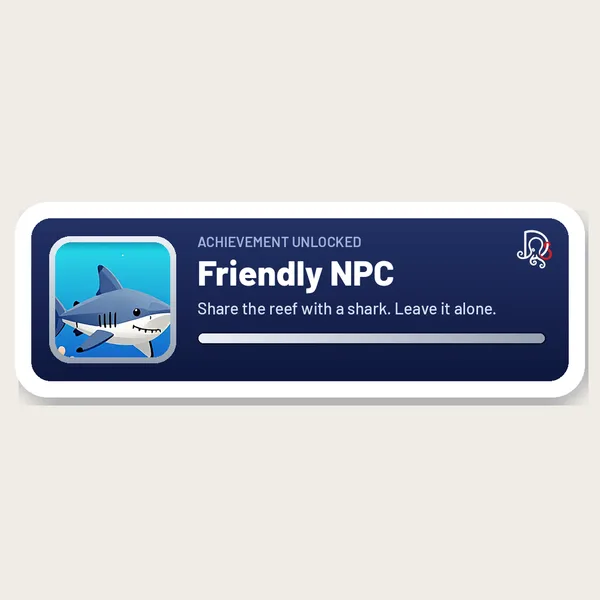
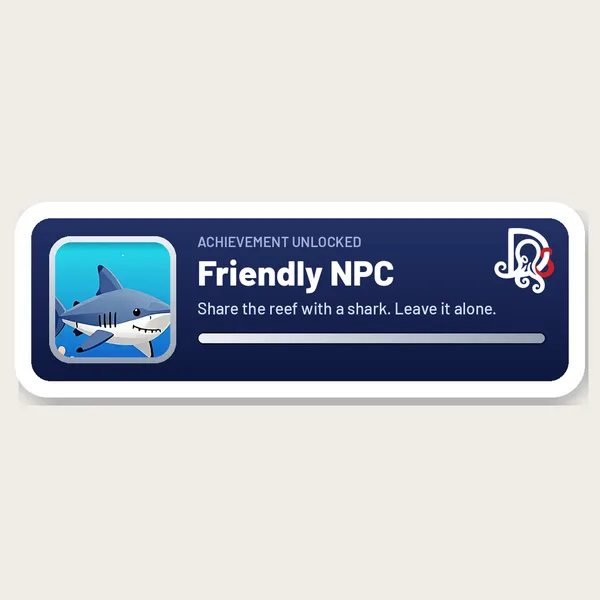
Stickers: heavy DS mark on the Achievement Unlocked set
Claude-Session: https://claude.ai/code/session_01X9sKEeTcKJuresRGfJguzk

Changed region(s): [[0.81, 0.36, 0.93, 0.51]]

diff --git a/index.html b/index.html
@@ -541,7 +541,7 @@ section{padding-block:clamp(40px,7vw,72px);border-top:1px solid var(--rule)}
         <h2 id="stickers-h">The stickers</h2>
         <p>Die-cut vinyl for the tank, the dive box and the logbook. <strong>Achievement Unlocked</strong> writes each course as a game achievement — twelve of them, $4 each or $15 for the full set on one sheet. The classic die-cuts are $5, one for each course and specialty, about 3 inches. Waterproof, with the DS mark worked into every one. More on the way.</p>
       </div>
-      <div class="sh-grid sk-grid" id="sk-grid"><figure class="sh sk" data-sku="DS-STK-A-SET12" data-line="achievement"><button type="button" class="sh-img" data-front="img/stickers/achievement-unlocked-full-set.webp?v=d41ab11b" data-cap="Achievement Unlocked — Full Set · 8.50 x 11.00 in sheet · $15" data-umami-event="sticker-open" data-umami-event-sticker="achievement-unlocked-full-set" aria-label="Open image: Achievement Unlocked — Full Set sticker"><img src="img/stickers/achievement-unlocked-full-set-t.webp?v=e28e6e7f" width="600" height="600" loading="lazy" decoding="async" alt="Achievement Unlocked — Full Set sticker: All twelve achievements on one kiss-cut sheet"></button><figcaption><span class="dz-row"><span class="dz-t">Achievement Unlocked — Full Set</span><span class="pill available">Coming soon</span></span><span class="dz-s">All twelve on one 8.5 × 11 in sheet · $15</span></figcaption></figure><figure class="sh sk" data-sku="DS-STK-A-OWD" data-line="achievement"><button type="button" class="sh-img" data-front="img/stickers/achievement-freshly-certified.webp?v=33fe5176" data-cap="Freshly Certified · 3.50 x 1.20 in · $4" data-umami-event="sticker-open" data-umami-event-sticker="achievement-freshly-certified" aria-label="Open image: Freshly Certified sticker"><img src="img/stickers/achievement-freshly-certified-t.webp?v=2d5724d3" width="600" height="600" loading="lazy" decoding="async" alt="Freshly Certified sticker: Complete your first four open water dives."></button><figcaption><span class="dz-row"><span class="dz-t">Freshly Certified</span><span class="pill available">Coming soon</span></span><span class="dz-s">Open Water · Bronze · 3.5 × 1.2 in · $4</span></figcaption></figure><figure class="sh sk" data-sku="DS-STK-A-RES" data-line="achievement"><button type="button" class="sh-img" data-front="img/stickers/achievement-not-on-my-watch.webp?v=531c9c5f" data-cap="Not On My Watch · 3.50 x 1.20 in · $4" data-umami-event="sticker-open" data-umami-event-sticker="achievement-not-on-my-watch" aria-label="Open image: Not On My Watch sticker"><img src="img/stickers/achievement-not-on-my-watch-t.webp?v=41d28a93" width="600" height="600" loading="lazy" decoding="async" alt="Not On My Watch sticker: Bring an unresponsive diver to the surface."></button><figcaption><span class="dz-row"><span class="dz-t">Not On My Watch</span><span class="pill available">Coming soon</span></span><span class="dz-s">Rescue · Gold · 3.5 × 1.2 in · $4</span></figcaption></figure><figure class="sh sk" data-sku="DS-STK-A-MSD" data-line="achievement"><button type="button" class="sh-img" data-front="img/stickers/achievement-master-diver.webp?v=067779b2" data-cap="Master Diver · 3.50 x 1.20 in · $4" data-umami-event="sticker-open" data-umami-event-sticker="achievement-master-diver" aria-label="Open image: Master Diver sticker"><img src="img/stickers/achievement-master-diver-t.webp?v=1607a403" width="600" height="600" loading="lazy" decoding="async" alt="Master Diver sticker: Earn Rescue plus five specialty certifications."></button><figcaption><span class="dz-row"><span class="dz-t">Master Diver</span><span class="pill available">Coming soon</span></span><span class="dz-s">Master Diver · Platinum · 3.5 × 1.2 in · $4</span></figcaption></figure><figure class="sh sk" data-sku="DS-STK-A-DRI" data-line="achievement"><button type="button" class="sh-img" data-front="img/stickers/achievement-along-for-the-ride.webp?v=079fc176" data-cap="Along For The Ride · 3.50 x 1.20 in · $4" data-umami-event="sticker-open" data-umami-event-sticker="achievement-along-for-the-ride" aria-label="Open image: Along For The Ride sticker"><img src="img/stickers/achievement-along-for-the-ride-t.webp?v=4b3c4d6d" width="600" height="600" loading="lazy" decoding="async" alt="Along For The Ride sticker: Let the current do all the work."></button><figcaption><span class="dz-row"><span class="dz-t">Along For The Ride</span><span class="pill available">Coming soon</span></span><span class="dz-s">Drift · Silver · 3.5 × 1.2 in · $4</span></figcaption></figure><figure class="sh sk" data-sku="DS-STK-A-BUO" data-line="achievement"><button type="button" class="sh-img" data-front="img/stickers/achievement-hover-mode.webp?v=f43058eb" data-cap="Hover Mode · 3.50 x 1.20 in · $4" data-umami-event="sticker-open" data-umami-event-sticker="achievement-hover-mode" aria-label="Open image: Hover Mode sticker"><img src="img/stickers/achievement-hover-mode-t.webp?v=5651ca1b" width="600" height="600" loading="lazy" decoding="async" alt="Hover Mode sticker: Hold neutral for a full minute. No fin kicks."></button><figcaption><span class="dz-row"><span class="dz-t">Hover Mode</span><span class="pill available">Coming soon</span></span><span class="dz-s">Peak Performance Buoyancy · Silver · 3.5 × 1.2 in · $4</span></figcaption></figure><figure class="sh sk" data-sku="DS-STK-A-NTX" data-line="achievement"><button type="button" class="sh-img" data-front="img/stickers/achievement-spicy-air.webp?v=b7b1169c" data-cap="Spicy Air · 3.50 x 1.20 in · $4" data-umami-event="sticker-open" data-umami-event-sticker="achievement-spicy-air" aria-label="Open image: Spicy Air sticker"><img src="img/stickers/achievement-spicy-air-t.webp?v=617b14eb" width="600" height="600" loading="lazy" decoding="async" alt="Spicy Air sticker: Analyze your own tank. 32% confirmed."></button><figcaption><span class="dz-row"><span class="dz-t">Spicy Air</span><span class="pill available">Coming soon</span></span><span class="dz-s">Enriched Air Nitrox · Bronze · 3.5 × 1.2 in · $4</span></figcaption></figure><figure class="sh sk" data-sku="DS-STK-A-UWP" data-line="achievement"><button type="button" class="sh-img" data-front="img/stickers/achievement-photobombed.webp?v=dd16156f" data-cap="Photobombed · 3.50 x 1.20 in · $4" data-umami-event="sticker-open" data-umami-event-sticker="achievement-photobombed" aria-label="Open image: Photobombed sticker"><img src="img/stickers/achievement-photobombed-t.webp?v=2269da52" width="600" height="600" loading="lazy" decoding="async" alt="Photobombed sticker: Get a fish to look straight at the camera."></button><figcaption><span class="dz-row"><span class="dz-t">Photobombed</span><span class="pill available">Coming soon</span></span><span class="dz-s">Underwater Photography · Bronze · 3.5 × 1.2 in · $4</span></figcaption></figure><figure class="sh sk" data-sku="DS-STK-A-SAR" data-line="achievement"><button type="button" class="sh-img" data-front="img/stickers/achievement-lost-and-found.webp?v=546abb11" data-cap="Lost &amp; Found · 3.50 x 1.20 in · $4" data-umami-event="sticker-open" data-umami-event-sticker="achievement-lost-and-found" aria-label="Open image: Lost &amp; Found sticker"><img src="img/stickers/achievement-lost-and-found-t.webp?v=cf3bdc9f" width="600" height="600" loading="lazy" decoding="async" alt="Lost &amp; Found sticker: Send a lost fin to the surface on a lift bag."></button><figcaption><span class="dz-row"><span class="dz-t">Lost &amp; Found</span><span class="pill available">Coming soon</span></span><span class="dz-s">Search &amp; Recovery · Silver · 3.5 × 1.2 in · $4</span></figcaption></figure><figure class="sh sk" data-sku="DS-STK-A-SID" data-line="achievement"><button type="button" class="sh-img" data-front="img/stickers/achievement-dual-wield.webp?v=4646a07c" data-cap="Dual Wield · 3.50 x 1.20 in · $4" data-umami-event="sticker-open" data-umami-event-sticker="achievement-dual-wield" aria-label="Open image: Dual Wield sticker"><img src="img/stickers/achievement-dual-wield-t.webp?v=1cbabbb5" width="600" height="600" loading="lazy" decoding="async" alt="Dual Wield sticker: Dive with a cylinder on each side."></button><figcaption><span class="dz-row"><span class="dz-t">Dual Wield</span><span class="pill available">Coming soon</span></span><span class="dz-s">Sidemount · Gold · 3.5 × 1.2 in · $4</span></figcaption></figure><figure class="sh sk" data-sku="DS-STK-A-SHK" data-line="achievement"><button type="button" class="sh-img" data-front="img/stickers/achievement-friendly-npc.webp?v=1299ccbc" data-cap="Friendly NPC · 3.50 x 1.20 in · $4" data-umami-event="sticker-open" data-umami-event-sticker="achievement-friendly-npc" aria-label="Open image: Friendly NPC sticker"><img src="img/stickers/achievement-friendly-npc-t.webp?v=3779b2f7" width="600" height="600" loading="lazy" decoding="async" alt="Friendly NPC sticker: Share the reef with a shark. Leave it alone."></button><figcaption><span class="dz-row"><span class="dz-t">Friendly NPC</span><span class="pill available">Coming soon</span></span><span class="dz-s">Shark Conservation · Silver · 3.5 × 1.2 in · $4</span></figcaption></figure><figure class="sh sk" data-sku="DS-STK-A-FSH" data-line="achievement"><button type="button" class="sh-img" data-front="img/stickers/achievement-bestiary.webp?v=f0c3f40c" data-cap="Bestiary · 3.50 x 1.20 in · $4" data-umami-event="sticker-open" data-umami-event-sticker="achievement-bestiary" aria-label="Open image: Bestiary sticker"><img src="img/stickers/achievement-bestiary-t.webp?v=4f4ab1d8" width="600" height="600" loading="lazy" decoding="async" alt="Bestiary sticker: Identify fifty species on one trip."></button><figcaption><span class="dz-row"><span class="dz-t">Bestiary</span><span class="pill available">Coming soon</span></span><span class="dz-s">Fish ID · Gold · 3.5 × 1.2 in · $4</span></figcaption></figure><figure class="sh sk" data-sku="DS-STK-A-ALT" data-line="achievement"><button type="button" class="sh-img" data-front="img/stickers/achievement-high-score.webp?v=33ff20e5" data-cap="High Score · 3.50 x 1.20 in · $4" data-umami-event="sticker-open" data-umami-event-sticker="achievement-high-score" aria-label="Open image: High Score sticker"><img src="img/stickers/achievement-high-score-t.webp?v=a37f8728" width="600" height="600" loading="lazy" decoding="async" alt="High Score sticker: Dive a lake more than 1,000 ft above sea level."></button><figcaption><span class="dz-row"><span class="dz-t">High Score</span><span class="pill available">Coming soon</span></span><span class="dz-s">Altitude · Gold · 3.5 × 1.2 in · $4</span></figcaption></figure><figure class="sh sk" data-sku="DS-STK-D-OWD" data-line="diecut"><button type="button" class="sh-img" data-front="img/stickers/sticker-open-water-freshly-certified.webp?v=2ba050f5" data-cap="Freshly Certified · 2.69 x 3.00 in · $5" data-umami-event="sticker-open" data-umami-event-sticker="sticker-open-water-freshly-certified" aria-label="Open image: Freshly Certified sticker"><img src="img/stickers/sticker-open-water-freshly-certified-t.webp?v=69e6f8b4" width="600" height="600" loading="lazy" decoding="async" alt="Freshly Certified sticker"></button><figcaption><span class="dz-row"><span class="dz-t">Freshly Certified</span><span class="pill available">Coming soon</span></span><span class="dz-s">Open Water · die-cut · 2.69 × 3.00 in · $5</span></figcaption></figure><figure class="sh sk" data-sku="DS-STK-D-AOW" data-line="diecut"><button type="button" class="sh-img" data-front="img/stickers/sticker-advanced-level-up.webp?v=b2963891" data-cap="Level Up · 2.69 x 3.00 in · $5" data-umami-event="sticker-open" data-umami-event-sticker="sticker-advanced-level-up" aria-label="Open image: Level Up sticker"><img src="img/stickers/sticker-advanced-level-up-t.webp?v=c7c256c6" width="600" height="600" loading="lazy" decoding="async" alt="Level Up sticker"></button><figcaption><span class="dz-row"><span class="dz-t">Level Up</span><span class="pill available">Coming soon</span></span><span class="dz-s">Advanced Open Water · die-cut · 2.69 × 3.00 in · $5</span></figcaption></figure><figure class="sh sk" data-sku="DS-STK-D-RES" data-line="diecut"><button type="button" class="sh-img" data-front="img/stickers/sticker-rescue-not-on-my-watch.webp?v=aca54433" data-cap="Not On My Watch · 2.90 x 3.00 in · $5" data-umami-event="sticker-open" data-umami-event-sticker="sticker-rescue-not-on-my-watch" aria-label="Open image: Not On My Watch sticker"><img src="img/stickers/sticker-rescue-not-on-my-watch-t.webp?v=9a055653" width="600" height="600" loading="lazy" decoding="async" alt="Not On My Watch sticker"></button><figcaption><span class="dz-row"><span class="dz-t">Not On My Watch</span><span class="pill available">Coming soon</span></span><span class="dz-s">Rescue · die-cut · 2.90 × 3.00 in · $5</span></figcaption></figure><figure class="sh sk" data-sku="DS-STK-D-MSD1" data-line="diecut"><button type="button" class="sh-img" data-front="img/stickers/sticker-master-diver-octopus.webp?v=e828f599" data-cap="Master Diver (Octopus) · 2.99 x 3.00 in · $5" data-umami-event="sticker-open" data-umami-event-sticker="sticker-master-diver-octopus" aria-label="Open image: Master Diver (Octopus) sticker"><img src="img/stickers/sticker-master-diver-octopus-t.webp?v=20ca2298" width="600" height="600" loading="lazy" decoding="async" alt="Master Diver (Octopus) sticker"></button><figcaption><span class="dz-row"><span class="dz-t">Master Diver (Octopus)</span><span class="pill available">Coming soon</span></span><span class="dz-s">Master Diver · die-cut · 2.99 × 3.00 in · $5</span></figcaption></figure><figure class="sh sk" data-sku="DS-STK-D-MSD2" data-line="diecut"><button type="button" class="sh-img" data-front="img/stickers/sticker-master-diver-king.webp?v=4f7bdd74" data-cap="Master Diver (Chess King) · 2.50 x 3.00 in · $5" data-umami-event="sticker-open" data-umami-event-sticker="sticker-master-diver-king" aria-label="Open image: Master Diver (Chess King) sticker"><img src="img/stickers/sticker-master-diver-king-t.webp?v=ba3e9c38" width="600" height="600" loading="lazy" decoding="async" alt="Master Diver (Chess King) sticker"></button><figcaption><span class="dz-row"><span class="dz-t">Master Diver (Chess King)</span><span class="pill available">Coming soon</span></span><span class="dz-s">Master Diver · die-cut · 2.50 × 3.00 in · $5</span></figcaption></figure><figure class="sh sk" data-sku="DS-STK-D-DEE" data-line="diecut"><button type="button" class="sh-img" data-front="img/stickers/sticker-deep-diver.webp?v=e21285ce" data-cap="Deep Diver · 2.98 x 3.00 in · $5" data-umami-event="sticker-open" data-umami-event-sticker="sticker-deep-diver" aria-label="Open image: Deep Diver sticker"><img src="img/stickers/sticker-deep-diver-t.webp?v=4e592d6a" width="600" height="600" loading="lazy" decoding="async" alt="Deep Diver sticker"></button><figcaption><span class="dz-row"><span class="dz-t">Deep Diver</span><span class="pill available">Coming soon</span></span><span class="dz-s">Deep · die-cut · 2.98 × 3.00 in · $5</span></figcaption></figure><figure class="sh sk" data-sku="DS-STK-D-DRI" data-line="diecut"><button type="button" class="sh-img" data-front="img/stickers/sticker-drift-diver.webp?v=0cda8076" data-cap="Drift Diver · 3.00 x 2.45 in · $5" data-umami-event="sticker-open" data-umami-event-sticker="sticker-drift-diver" aria-label="Open image: Drift Diver sticker"><img src="img/stickers/sticker-drift-diver-t.webp?v=71beb266" width="600" height="600" loading="lazy" decoding="async" alt="Drift Diver sticker"></button><figcaption><span class="dz-row"><span class="dz-t">Drift Diver</span><span class="pill available">Coming soon</span></span><span class="dz-s">Drift · die-cut · 3.00 × 2.45 in · $5</span></figcaption></figure><figure class="sh sk" data-sku="DS-STK-D-BUO" data-line="diecut"><button type="button" class="sh-img" data-front="img/stickers/sticker-perfect-buoyancy.webp?v=5b659eac" data-cap="Perfect Buoyancy · 1.82 x 3.00 in · $5" data-umami-event="sticker-open" data-umami-event-sticker="sticker-perfect-buoyancy" aria-label="Open image: Perfect Buoyancy sticker"><img src="img/stickers/sticker-perfect-buoyancy-t.webp?v=78c71e59" width="600" height="600" loading="lazy" decoding="async" alt="Perfect Buoyancy sticker"></button><figcaption><span class="dz-row"><span class="dz-t">Perfect Buoyancy</span><span class="pill available">Coming soon</span></span><span class="dz-s">Peak Performance Buoyancy · die-cut · 1.82 × 3.00 in · $5</span></figcaption></figure><figure class="sh sk" data-sku="DS-STK-D-DRS" data-line="diecut"><button type="button" class="sh-img" data-front="img/stickers/sticker-dry-suit-warm-and-dry-ish.webp?v=053e0413" data-cap="Warm &amp; Dry-ish · 2.49 x 3.00 in · $5" data-umami-event="sticker-open" data-umami-event-sticker="sticker-dry-suit-warm-and-dry-ish" aria-label="Open image: Warm &amp; Dry-ish sticker"><img src="img/stickers/sticker-dry-suit-warm-and-dry-ish-t.webp?v=983dfa53" width="600" height="600" loading="lazy" decoding="async" alt="Warm &amp; Dry-ish sticker"></button><figcaption><span class="dz-row"><span class="dz-t">Warm &amp; Dry-ish</span><span class="pill available">Coming soon</span></span><span class="dz-s">Dry Suit · die-cut · 2.49 × 3.00 in · $5</span></figcaption></figure><figure class="sh sk" data-sku="DS-STK-D-NTX" data-line="diecut"><button type="button" class="sh-img" data-front="img/stickers/sticker-nitrox-spicy-air.webp?v=4dcd5a82" data-cap="Spicy Air · 1.76 x 3.00 in · $5" data-umami-event="sticker-open" data-umami-event-sticker="sticker-nitrox-spicy-air" aria-label="Open image: Spicy Air sticker"><img src="img/stickers/sticker-nitrox-spicy-air-t.webp?v=ed32aa7d" width="600" height="600" loading="lazy" decoding="async" alt="Spicy Air sticker"></button><figcaption><span class="dz-row"><span class="dz-t">Spicy Air</span><span class="pill available">Coming soon</span></span><span class="dz-s">Enriched Air Nitrox · die-cut · 1.76 × 3.00 in · $5</span></figcaption></figure><figure class="sh sk" data-sku="DS-STK-D-SID" data-line="diecut"><button type="button" class="sh-img" data-front="img/stickers/sticker-sidemount-turtle.webp?v=0b2ead83" data-cap="Sidemount · 3.00 x 2.40 in · $5" data-umami-event="sticker-open" data-umami-event-sticker="sticker-sidemount-turtle" aria-label="Open image: Sidemount sticker"><img src="img/stickers/sticker-sidemount-turtle-t.webp?v=a9d82cf1" width="600" height="600" loading="lazy" decoding="async" alt="Sidemount sticker"></button><figcaption><span class="dz-row"><span class="dz-t">Sidemount</span><span class="pill available">Coming soon</span></span><span class="dz-s">Sidemount · die-cut · 3.00 × 2.40 in · $5</span></figcaption></figure><figure class="sh sk" data-sku="DS-STK-D-FSH" data-line="diecut"><button type="button" class="sh-img" data-front="img/stickers/sticker-fish-id-eye-chart.webp?v=044640d2" data-cap="ID Fish · 2.05 x 3.00 in · $5" data-umami-event="sticker-open" data-umami-event-sticker="sticker-fish-id-eye-chart" aria-label="Open image: ID Fish sticker"><img src="img/stickers/sticker-fish-id-eye-chart-t.webp?v=dff55edb" width="600" height="600" loading="lazy" decoding="async" alt="ID Fish sticker"></button><figcaption><span class="dz-row"><span class="dz-t">ID Fish</span><span class="pill available">Coming soon</span></span><span class="dz-s">Fish ID · die-cut · 2.05 × 3.00 in · $5</span></figcaption></figure><figure class="sh sk" data-sku="DS-STK-D-ALT" data-line="diecut"><button type="button" class="sh-img" data-front="img/stickers/sticker-altitude-diver.webp?v=9763321e" data-cap="Altitude Diver · 2.70 x 3.00 in · $5" data-umami-event="sticker-open" data-umami-event-sticker="sticker-altitude-diver" aria-label="Open image: Altitude Diver sticker"><img src="img/stickers/sticker-altitude-diver-t.webp?v=92356cd5" width="600" height="600" loading="lazy" decoding="async" alt="Altitude Diver sticker"></button><figcaption><span class="dz-row"><span class="dz-t">Altitude Diver</span><span class="pill available">Coming soon</span></span><span class="dz-s">Altitude · die-cut · 2.70 × 3.00 in · $5</span></figcaption></figure></div>
+      <div class="sh-grid sk-grid" id="sk-grid"><figure class="sh sk" data-sku="DS-STK-A-SET12" data-line="achievement"><button type="button" class="sh-img" data-front="img/stickers/achievement-unlocked-full-set.webp?v=abef9ff2" data-cap="Achievement Unlocked — Full Set · 8.50 x 11.00 in sheet · $15" data-umami-event="sticker-open" data-umami-event-sticker="achievement-unlocked-full-set" aria-label="Open image: Achievement Unlocked — Full Set sticker"><img src="img/stickers/achievement-unlocked-full-set-t.webp?v=fd259938" width="600" height="600" loading="lazy" decoding="async" alt="Achievement Unlocked — Full Set sticker: All twelve achievements on one kiss-cut sheet"></button><figcaption><span class="dz-row"><span class="dz-t">Achievement Unlocked — Full Set</span><span class="pill available">Coming soon</span></span><span class="dz-s">All twelve on one 8.5 × 11 in sheet · $15</span></figcaption></figure><figure class="sh sk" data-sku="DS-STK-A-OWD" data-line="achievement"><button type="button" class="sh-img" data-front="img/stickers/achievement-freshly-certified.webp?v=2f8fab0a" data-cap="Freshly Certified · 3.50 x 1.20 in · $4" data-umami-event="sticker-open" data-umami-event-sticker="achievement-freshly-certified" aria-label="Open image: Freshly Certified sticker"><img src="img/stickers/achievement-freshly-certified-t.webp?v=68b1d27b" width="600" height="600" loading="lazy" decoding="async" alt="Freshly Certified sticker: Complete your first four open water dives."></button><figcaption><span class="dz-row"><span class="dz-t">Freshly Certified</span><span class="pill available">Coming soon</span></span><span class="dz-s">Open Water · Bronze · 3.5 × 1.2 in · $4</span></figcaption></figure><figure class="sh sk" data-sku="DS-STK-A-RES" data-line="achievement"><button type="button" class="sh-img" data-front="img/stickers/achievement-not-on-my-watch.webp?v=66eb9e38" data-cap="Not On My Watch · 3.50 x 1.20 in · $4" data-umami-event="sticker-open" data-umami-event-sticker="achievement-not-on-my-watch" aria-label="Open image: Not On My Watch sticker"><img src="img/stickers/achievement-not-on-my-watch-t.webp?v=8982b3c0" width="600" height="600" loading="lazy" decoding="async" alt="Not On My Watch sticker: Bring an unresponsive diver to the surface."></button><figcaption><span class="dz-row"><span class="dz-t">Not On My Watch</span><span class="pill available">Coming soon</span></span><span class="dz-s">Rescue · Gold · 3.5 × 1.2 in · $4</span></figcaption></figure><figure class="sh sk" data-sku="DS-STK-A-MSD" data-line="achievement"><button type="button" class="sh-img" data-front="img/stickers/achievement-master-diver.webp?v=56c2c7be" data-cap="Master Diver · 3.50 x 1.20 in · $4" data-umami-event="sticker-open" data-umami-event-sticker="achievement-master-diver" aria-label="Open image: Master Diver sticker"><img src="img/stickers/achievement-master-diver-t.webp?v=a8fa8fed" width="600" height="600" loading="lazy" decoding="async" alt="Master Diver sticker: Earn Rescue plus five specialty certifications."></button><figcaption><span class="dz-row"><span class="dz-t">Master Diver</span><span class="pill available">Coming soon</span></span><span class="dz-s">Master Diver · Platinum · 3.5 × 1.2 in · $4</span></figcaption></figure><figure class="sh sk" data-sku="DS-STK-A-DRI" data-line="achievement"><button type="button" class="sh-img" data-front="img/stickers/achievement-along-for-the-ride.webp?v=8e0d26c9" data-cap="Along For The Ride · 3.50 x 1.20 in · $4" data-umami-event="sticker-open" data-umami-event-sticker="achievement-along-for-the-ride" aria-label="Open image: Along For The Ride sticker"><img src="img/stickers/achievement-along-for-the-ride-t.webp?v=de78bf48" width="600" height="600" loading="lazy" decoding="async" alt="Along For The Ride sticker: Let the current do all the work."></button><figcaption><span class="dz-row"><span class="dz-t">Along For The Ride</span><span class="pill available">Coming soon</span></span><span class="dz-s">Drift · Silver · 3.5 × 1.2 in · $4</span></figcaption></figure><figure class="sh sk" data-sku="DS-STK-A-BUO" data-line="achievement"><button type="button" class="sh-img" data-front="img/stickers/achievement-hover-mode.webp?v=74e4059e" data-cap="Hover Mode · 3.50 x 1.20 in · $4" data-umami-event="sticker-open" data-umami-event-sticker="achievement-hover-mode" aria-label="Open image: Hover Mode sticker"><img src="img/stickers/achievement-hover-mode-t.webp?v=63da8661" width="600" height="600" loading="lazy" decoding="async" alt="Hover Mode sticker: Hold neutral for a full minute. No fin kicks."></button><figcaption><span class="dz-row"><span class="dz-t">Hover Mode</span><span class="pill available">Coming soon</span></span><span class="dz-s">Peak Performance Buoyancy · Silver · 3.5 × 1.2 in · $4</span></figcaption></figure><figure class="sh sk" data-sku="DS-STK-A-NTX" data-line="achievement"><button type="button" class="sh-img" data-front="img/stickers/achievement-spicy-air.webp?v=3b686154" data-cap="Spicy Air · 3.50 x 1.20 in · $4" data-umami-event="sticker-open" data-umami-event-sticker="achievement-spicy-air" aria-label="Open image: Spicy Air sticker"><img src="img/stickers/achievement-spicy-air-t.webp?v=0093aaf6" width="600" height="600" loading="lazy" decoding="async" alt="Spicy Air sticker: Analyze your own tank. 32% confirmed."></button><figcaption><span class="dz-row"><span class="dz-t">Spicy Air</span><span class="pill available">Coming soon</span></span><span class="dz-s">Enriched Air Nitrox · Bronze · 3.5 × 1.2 in · $4</span></figcaption></figure><figure class="sh sk" data-sku="DS-STK-A-UWP" data-line="achievement"><button type="button" class="sh-img" data-front="img/stickers/achievement-photobombed.webp?v=15b807e5" data-cap="Photobombed · 3.50 x 1.20 in · $4" data-umami-event="sticker-open" data-umami-event-sticker="achievement-photobombed" aria-label="Open image: Photobombed sticker"><img src="img/stickers/achievement-photobombed-t.webp?v=386be0b0" width="600" height="600" loading="lazy" decoding="async" alt="Photobombed sticker: Get a fish to look straight at the camera."></button><figcaption><span class="dz-row"><span class="dz-t">Photobombed</span><span class="pill available">Coming soon</span></span><span class="dz-s">Underwater Photography · Bronze · 3.5 × 1.2 in · $4</span></figcaption></figure><figure class="sh sk" data-sku="DS-STK-A-SAR" data-line="achievement"><button type="button" class="sh-img" data-front="img/stickers/achievement-lost-and-found.webp?v=7c1d29a0" data-cap="Lost &amp; Found · 3.50 x 1.20 in · $4" data-umami-event="sticker-open" data-umami-event-sticker="achievement-lost-and-found" aria-label="Open image: Lost &amp; Found sticker"><img src="img/stickers/achievement-lost-and-found-t.webp?v=244e521f" width="600" height="600" loading="lazy" decoding="async" alt="Lost &amp; Found sticker: Send a lost fin to the surface on a lift bag."></button><figcaption><span class="dz-row"><span class="dz-t">Lost &amp; Found</span><span class="pill available">Coming soon</span></span><span class="dz-s">Search &amp; Recovery · Silver · 3.5 × 1.2 in · $4</span></figcaption></figure><figure class="sh sk" data-sku="DS-STK-A-SID" data-line="achievement"><button type="button" class="sh-img" data-front="img/stickers/achievement-dual-wield.webp?v=23341953" data-cap="Dual Wield · 3.50 x 1.20 in · $4" data-umami-event="sticker-open" data-umami-event-sticker="achievement-dual-wield" aria-label="Open image: Dual Wield sticker"><img src="img/stickers/achievement-dual-wield-t.webp?v=fc02fa04" width="600" height="600" loading="lazy" decoding="async" alt="Dual Wield sticker: Dive with a cylinder on each side."></button><figcaption><span class="dz-row"><span class="dz-t">Dual Wield</span><span class="pill available">Coming soon</span></span><span class="dz-s">Sidemount · Gold · 3.5 × 1.2 in · $4</span></figcaption></figure><figure class="sh sk" data-sku="DS-STK-A-SHK" data-line="achievement"><button type="button" class="sh-img" data-front="img/stickers/achievement-friendly-npc.webp?v=d743ae5b" data-cap="Friendly NPC · 3.50 x 1.20 in · $4" data-umami-event="sticker-open" data-umami-event-sticker="achievement-friendly-npc" aria-label="Open image: Friendly NPC sticker"><img src="img/stickers/achievement-friendly-npc-t.webp?v=7e2b16b9" width="600" height="600" loading="lazy" decoding="async" alt="Friendly NPC sticker: Share the reef with a shark. Leave it alone."></button><figcaption><span class="dz-row"><span class="dz-t">Friendly NPC</span><span class="pill available">Coming soon</span></span><span class="dz-s">Shark Conservation · Silver · 3.5 × 1.2 in · $4</span></figcaption></figure><figure class="sh sk" data-sku="DS-STK-A-FSH" data-line="achievement"><button type="button" class="sh-img" data-front="img/stickers/achievement-bestiary.webp?v=c602a14b" data-cap="Bestiary · 3.50 x 1.20 in · $4" data-umami-event="sticker-open" data-umami-event-sticker="achievement-bestiary" aria-label="Open image: Bestiary sticker"><img src="img/stickers/achievement-bestiary-t.webp?v=2536ca15" width="600" height="600" loading="lazy" decoding="async" alt="Bestiary sticker: Identify fifty species on one trip."></button><figcaption><span class="dz-row"><span class="dz-t">Bestiary</span><span class="pill available">Coming soon</span></span><span class="dz-s">Fish ID · Gold · 3.5 × 1.2 in · $4</span></figcaption></figure><figure class="sh sk" data-sku="DS-STK-A-ALT" data-line="achievement"><button type="button" class="sh-img" data-front="img/stickers/achievement-high-score.webp?v=d5567d49" data-cap="High Score · 3.50 x 1.20 in · $4" data-umami-event="sticker-open" data-umami-event-sticker="achievement-high-score" aria-label="Open image: High Score sticker"><img src="img/stickers/achievement-high-score-t.webp?v=b8256ed5" width="600" height="600" loading="lazy" decoding="async" alt="High Score sticker: Dive a lake more than 1,000 ft above sea level."></button><figcaption><span class="dz-row"><span class="dz-t">High Score</span><span class="pill available">Coming soon</span></span><span class="dz-s">Altitude · Gold · 3.5 × 1.2 in · $4</span></figcaption></figure><figure class="sh sk" data-sku="DS-STK-D-OWD" data-line="diecut"><button type="button" class="sh-img" data-front="img/stickers/sticker-open-water-freshly-certified.webp?v=2ba050f5" data-cap="Freshly Certified · 2.69 x 3.00 in · $5" data-umami-event="sticker-open" data-umami-event-sticker="sticker-open-water-freshly-certified" aria-label="Open image: Freshly Certified sticker"><img src="img/stickers/sticker-open-water-freshly-certified-t.webp?v=69e6f8b4" width="600" height="600" loading="lazy" decoding="async" alt="Freshly Certified sticker"></button><figcaption><span class="dz-row"><span class="dz-t">Freshly Certified</span><span class="pill available">Coming soon</span></span><span class="dz-s">Open Water · die-cut · 2.69 × 3.00 in · $5</span></figcaption></figure><figure class="sh sk" data-sku="DS-STK-D-AOW" data-line="diecut"><button type="button" class="sh-img" data-front="img/stickers/sticker-advanced-level-up.webp?v=b2963891" data-cap="Level Up · 2.69 x 3.00 in · $5" data-umami-event="sticker-open" data-umami-event-sticker="sticker-advanced-level-up" aria-label="Open image: Level Up sticker"><img src="img/stickers/sticker-advanced-level-up-t.webp?v=c7c256c6" width="600" height="600" loading="lazy" decoding="async" alt="Level Up sticker"></button><figcaption><span class="dz-row"><span class="dz-t">Level Up</span><span class="pill available">Coming soon</span></span><span class="dz-s">Advanced Open Water · die-cut · 2.69 × 3.00 in · $5</span></figcaption></figure><figure class="sh sk" data-sku="DS-STK-D-RES" data-line="diecut"><button type="button" class="sh-img" data-front="img/stickers/sticker-rescue-not-on-my-watch.webp?v=aca54433" data-cap="Not On My Watch · 2.90 x 3.00 in · $5" data-umami-event="sticker-open" data-umami-event-sticker="sticker-rescue-not-on-my-watch" aria-label="Open image: Not On My Watch sticker"><img src="img/stickers/sticker-rescue-not-on-my-watch-t.webp?v=9a055653" width="600" height="600" loading="lazy" decoding="async" alt="Not On My Watch sticker"></button><figcaption><span class="dz-row"><span class="dz-t">Not On My Watch</span><span class="pill available">Coming soon</span></span><span class="dz-s">Rescue · die-cut · 2.90 × 3.00 in · $5</span></figcaption></figure><figure class="sh sk" data-sku="DS-STK-D-MSD1" data-line="diecut"><button type="button" class="sh-img" data-front="img/stickers/sticker-master-diver-octopus.webp?v=e828f599" data-cap="Master Diver (Octopus) · 2.99 x 3.00 in · $5" data-umami-event="sticker-open" data-umami-event-sticker="sticker-master-diver-octopus" aria-label="Open image: Master Diver (Octopus) sticker"><img src="img/stickers/sticker-master-diver-octopus-t.webp?v=20ca2298" width="600" height="600" loading="lazy" decoding="async" alt="Master Diver (Octopus) sticker"></button><figcaption><span class="dz-row"><span class="dz-t">Master Diver (Octopus)</span><span class="pill available">Coming soon</span></span><span class="dz-s">Master Diver · die-cut · 2.99 × 3.00 in · $5</span></figcaption></figure><figure class="sh sk" data-sku="DS-STK-D-MSD2" data-line="diecut"><button type="button" class="sh-img" data-front="img/stickers/sticker-master-diver-king.webp?v=4f7bdd74" data-cap="Master Diver (Chess King) · 2.50 x 3.00 in · $5" data-umami-event="sticker-open" data-umami-event-sticker="sticker-master-diver-king" aria-label="Open image: Master Diver (Chess King) sticker"><img src="img/stickers/sticker-master-diver-king-t.webp?v=ba3e9c38" width="600" height="600" loading="lazy" decoding="async" alt="Master Diver (Chess King) sticker"></button><figcaption><span class="dz-row"><span class="dz-t">Master Diver (Chess King)</span><span class="pill available">Coming soon</span></span><span class="dz-s">Master Diver · die-cut · 2.50 × 3.00 in · $5</span></figcaption></figure><figure class="sh sk" data-sku="DS-STK-D-DEE" data-line="diecut"><button type="button" class="sh-img" data-front="img/stickers/sticker-deep-diver.webp?v=e21285ce" data-cap="Deep Diver · 2.98 x 3.00 in · $5" data-umami-event="sticker-open" data-umami-event-sticker="sticker-deep-diver" aria-label="Open image: Deep Diver sticker"><img src="img/stickers/sticker-deep-diver-t.webp?v=4e592d6a" width="600" height="600" loading="lazy" decoding="async" alt="Deep Diver sticker"></button><figcaption><span class="dz-row"><span class="dz-t">Deep Diver</span><span class="pill available">Coming soon</span></span><span class="dz-s">Deep · die-cut · 2.98 × 3.00 in · $5</span></figcaption></figure><figure class="sh sk" data-sku="DS-STK-D-DRI" data-line="diecut"><button type="button" class="sh-img" data-front="img/stickers/sticker-drift-diver.webp?v=0cda8076" data-cap="Drift Diver · 3.00 x 2.45 in · $5" data-umami-event="sticker-open" data-umami-event-sticker="sticker-drift-diver" aria-label="Open image: Drift Diver sticker"><img src="img/stickers/sticker-drift-diver-t.webp?v=71beb266" width="600" height="600" loading="lazy" decoding="async" alt="Drift Diver sticker"></button><figcaption><span class="dz-row"><span class="dz-t">Drift Diver</span><span class="pill available">Coming soon</span></span><span class="dz-s">Drift · die-cut · 3.00 × 2.45 in · $5</span></figcaption></figure><figure class="sh sk" data-sku="DS-STK-D-BUO" data-line="diecut"><button type="button" class="sh-img" data-front="img/stickers/sticker-perfect-buoyancy.webp?v=5b659eac" data-cap="Perfect Buoyancy · 1.82 x 3.00 in · $5" data-umami-event="sticker-open" data-umami-event-sticker="sticker-perfect-buoyancy" aria-label="Open image: Perfect Buoyancy sticker"><img src="img/stickers/sticker-perfect-buoyancy-t.webp?v=78c71e59" width="600" height="600" loading="lazy" decoding="async" alt="Perfect Buoyancy sticker"></button><figcaption><span class="dz-row"><span class="dz-t">Perfect Buoyancy</span><span class="pill available">Coming soon</span></span><span class="dz-s">Peak Performance Buoyancy · die-cut · 1.82 × 3.00 in · $5</span></figcaption></figure><figure class="sh sk" data-sku="DS-STK-D-DRS" data-line="diecut"><button type="button" class="sh-img" data-front="img/stickers/sticker-dry-suit-warm-and-dry-ish.webp?v=053e0413" data-cap="Warm &amp; Dry-ish · 2.49 x 3.00 in · $5" data-umami-event="sticker-open" data-umami-event-sticker="sticker-dry-suit-warm-and-dry-ish" aria-label="Open image: Warm &amp; Dry-ish sticker"><img src="img/stickers/sticker-dry-suit-warm-and-dry-ish-t.webp?v=983dfa53" width="600" height="600" loading="lazy" decoding="async" alt="Warm &amp; Dry-ish sticker"></button><figcaption><span class="dz-row"><span class="dz-t">Warm &amp; Dry-ish</span><span class="pill available">Coming soon</span></span><span class="dz-s">Dry Suit · die-cut · 2.49 × 3.00 in · $5</span></figcaption></figure><figure class="sh sk" data-sku="DS-STK-D-NTX" data-line="diecut"><button type="button" class="sh-img" data-front="img/stickers/sticker-nitrox-spicy-air.webp?v=4dcd5a82" data-cap="Spicy Air · 1.76 x 3.00 in · $5" data-umami-event="sticker-open" data-umami-event-sticker="sticker-nitrox-spicy-air" aria-label="Open image: Spicy Air sticker"><img src="img/stickers/sticker-nitrox-spicy-air-t.webp?v=ed32aa7d" width="600" height="600" loading="lazy" decoding="async" alt="Spicy Air sticker"></button><figcaption><span class="dz-row"><span class="dz-t">Spicy Air</span><span class="pill available">Coming soon</span></span><span class="dz-s">Enriched Air Nitrox · die-cut · 1.76 × 3.00 in · $5</span></figcaption></figure><figure class="sh sk" data-sku="DS-STK-D-SID" data-line="diecut"><button type="button" class="sh-img" data-front="img/stickers/sticker-sidemount-turtle.webp?v=0b2ead83" data-cap="Sidemount · 3.00 x 2.40 in · $5" data-umami-event="sticker-open" data-umami-event-sticker="sticker-sidemount-turtle" aria-label="Open image: Sidemount sticker"><img src="img/stickers/sticker-sidemount-turtle-t.webp?v=a9d82cf1" width="600" height="600" loading="lazy" decoding="async" alt="Sidemount sticker"></button><figcaption><span class="dz-row"><span class="dz-t">Sidemount</span><span class="pill available">Coming soon</span></span><span class="dz-s">Sidemount · die-cut · 3.00 × 2.40 in · $5</span></figcaption></figure><figure class="sh sk" data-sku="DS-STK-D-FSH" data-line="diecut"><button type="button" class="sh-img" data-front="img/stickers/sticker-fish-id-eye-chart.webp?v=044640d2" data-cap="ID Fish · 2.05 x 3.00 in · $5" data-umami-event="sticker-open" data-umami-event-sticker="sticker-fish-id-eye-chart" aria-label="Open image: ID Fish sticker"><img src="img/stickers/sticker-fish-id-eye-chart-t.webp?v=dff55edb" width="600" height="600" loading="lazy" decoding="async" alt="ID Fish sticker"></button><figcaption><span class="dz-row"><span class="dz-t">ID Fish</span><span class="pill available">Coming soon</span></span><span class="dz-s">Fish ID · die-cut · 2.05 × 3.00 in · $5</span></figcaption></figure><figure class="sh sk" data-sku="DS-STK-D-ALT" data-line="diecut"><button type="button" class="sh-img" data-front="img/stickers/sticker-altitude-diver.webp?v=9763321e" data-cap="Altitude Diver · 2.70 x 3.00 in · $5" data-umami-event="sticker-open" data-umami-event-sticker="sticker-altitude-diver" aria-label="Open image: Altitude Diver sticker"><img src="img/stickers/sticker-altitude-diver-t.webp?v=92356cd5" width="600" height="600" loading="lazy" decoding="async" alt="Altitude Diver sticker"></button><figcaption><span class="dz-row"><span class="dz-t">Altitude Diver</span><span class="pill available">Coming soon</span></span><span class="dz-s">Altitude · die-cut · 2.70 × 3.00 in · $5</span></figcaption></figure></div>
     </section>
     <section id="craft" aria-labelledby="craft-h">
       <div class="head"><h2 id="craft-h">Every mark by hand</h2></div>

diff --git a/CHANGELOG-2026-10-29.md b/CHANGELOG-2026-10-29.md
@@ -7,3 +7,6 @@
 - Images in `img/stickers/` (`<slug>.webp` 1200 px and `<slug>-t.webp` 600 px, sticker on warm paper). Cards open in the existing shirt lightbox (`sk-grid` added to its grid list).
 - Matching Shopify drafts: 26 products (type Sticker, tags `sticker`, `sticker-achievement` / `sticker-die-cut`, `coming-soon`, `cert:<code>`), SKUs `DS-STK-A-<code>`, `DS-STK-D-<code>`, `DS-STK-A-SET12`; collections **Stickers**, **Achievement Unlocked**, **Die-cut Stickers**. Handles match the image slugs (e.g. `achievement-high-score`, `sticker-deep-diver`).
 - Cache-busting stamps refreshed (`tools/bust.py`).
+
+## 2026-11-02 — heavy DS mark on the Achievement stickers
+- The 12 Achievement Unlocked stickers and the Full Set sheet now carry Eric's **heavy-weight DS mark** (white D + red S, from the 25 Oct heavy master), 0.40 in tall top-right; titles stop short of it. Images in `img/stickers/achievement-*` replaced.
